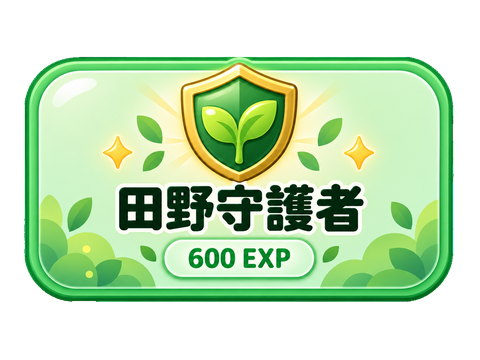
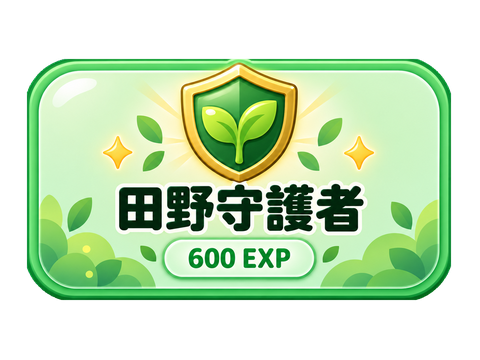
Titles: clip leaves that poked past the card border; add wrapper overflow clip
- Re-mask the 7 title-card PNGs using median-based border detection: a stray
  leaf poking past the border is now an outlier and gets clipped, instead of
  extending the bounding box and surviving along the straight mask edge (fixes
  leaves sticking out on the right/top edges, e.g. 豐收先鋒 / 農事學徒)
- Add overflow:hidden + border-radius to .tk-chip-wrap so any decorative
  content is clipped to the card bounds at the DOM level too (.tk-chip already
  clips); the Titles section container itself has no decoration
- No decorative pseudo-elements or leaf spans exist on the section/cards
- Card design, layout, sizing and the state-driven unlock/lock overlay are
  unchanged (verified lockShown === locked at exp 0/350/3000, no section-level
  leaf elements, no horizontal overflow, page still fits one 390x844 viewport)

Claude-Session: https://claude.ai/code/session_011UMCHMkesSR9npXbMMBsjx

diff --git a/index.html b/index.html
@@ -282,8 +282,9 @@ input, textarea { width: 100%; padding: 12px; border: 2px solid #eee; border-rad
 /* 稱號：橫向輪播（一次看 3 張、其餘可左右滑動；不讓整頁橫向溢出） */
 #viewTask .tk-title-row { display:flex; gap:11px; overflow-x:auto; max-width:100%; padding:2px 2px 4px; scrollbar-width:none; -webkit-overflow-scrolling:touch; scroll-snap-type:x proximity; overscroll-behavior-x:contain; }
 #viewTask .tk-title-row::-webkit-scrollbar { display:none; }
-/* 外層包裝：作為排版單位，維持三張卡等寬等高、間距一致 */
-#viewTask .tk-chip-wrap { position:relative; box-sizing:border-box; flex:0 0 auto; width:150px; scroll-snap-align:start; }
+/* 外層包裝：作為排版單位，維持三張卡等寬等高、間距一致；裁切任何超出卡片的內容 */
+#viewTask .tk-chip-wrap { position:relative; box-sizing:border-box; flex:0 0 auto; width:150px; scroll-snap-align:start; overflow:hidden; border-radius:16px; }
+/* 卡片本體：任何卡面裝飾都必須裁切在卡片邊界內 */
 #viewTask .tk-chip { position:relative; box-sizing:border-box; overflow:hidden; width:100%; aspect-ratio:4 / 3; border-radius:16px; text-align:center; background:transparent; border:none; z-index:1; }
 #viewTask .tk-chip.current { box-shadow:0 6px 16px rgba(70,170,100,0.28); }
 /* 上傳的稱號卡圖：鋪滿整張卡（載入失敗則自動隱藏，露出下方文字退回卡） */
